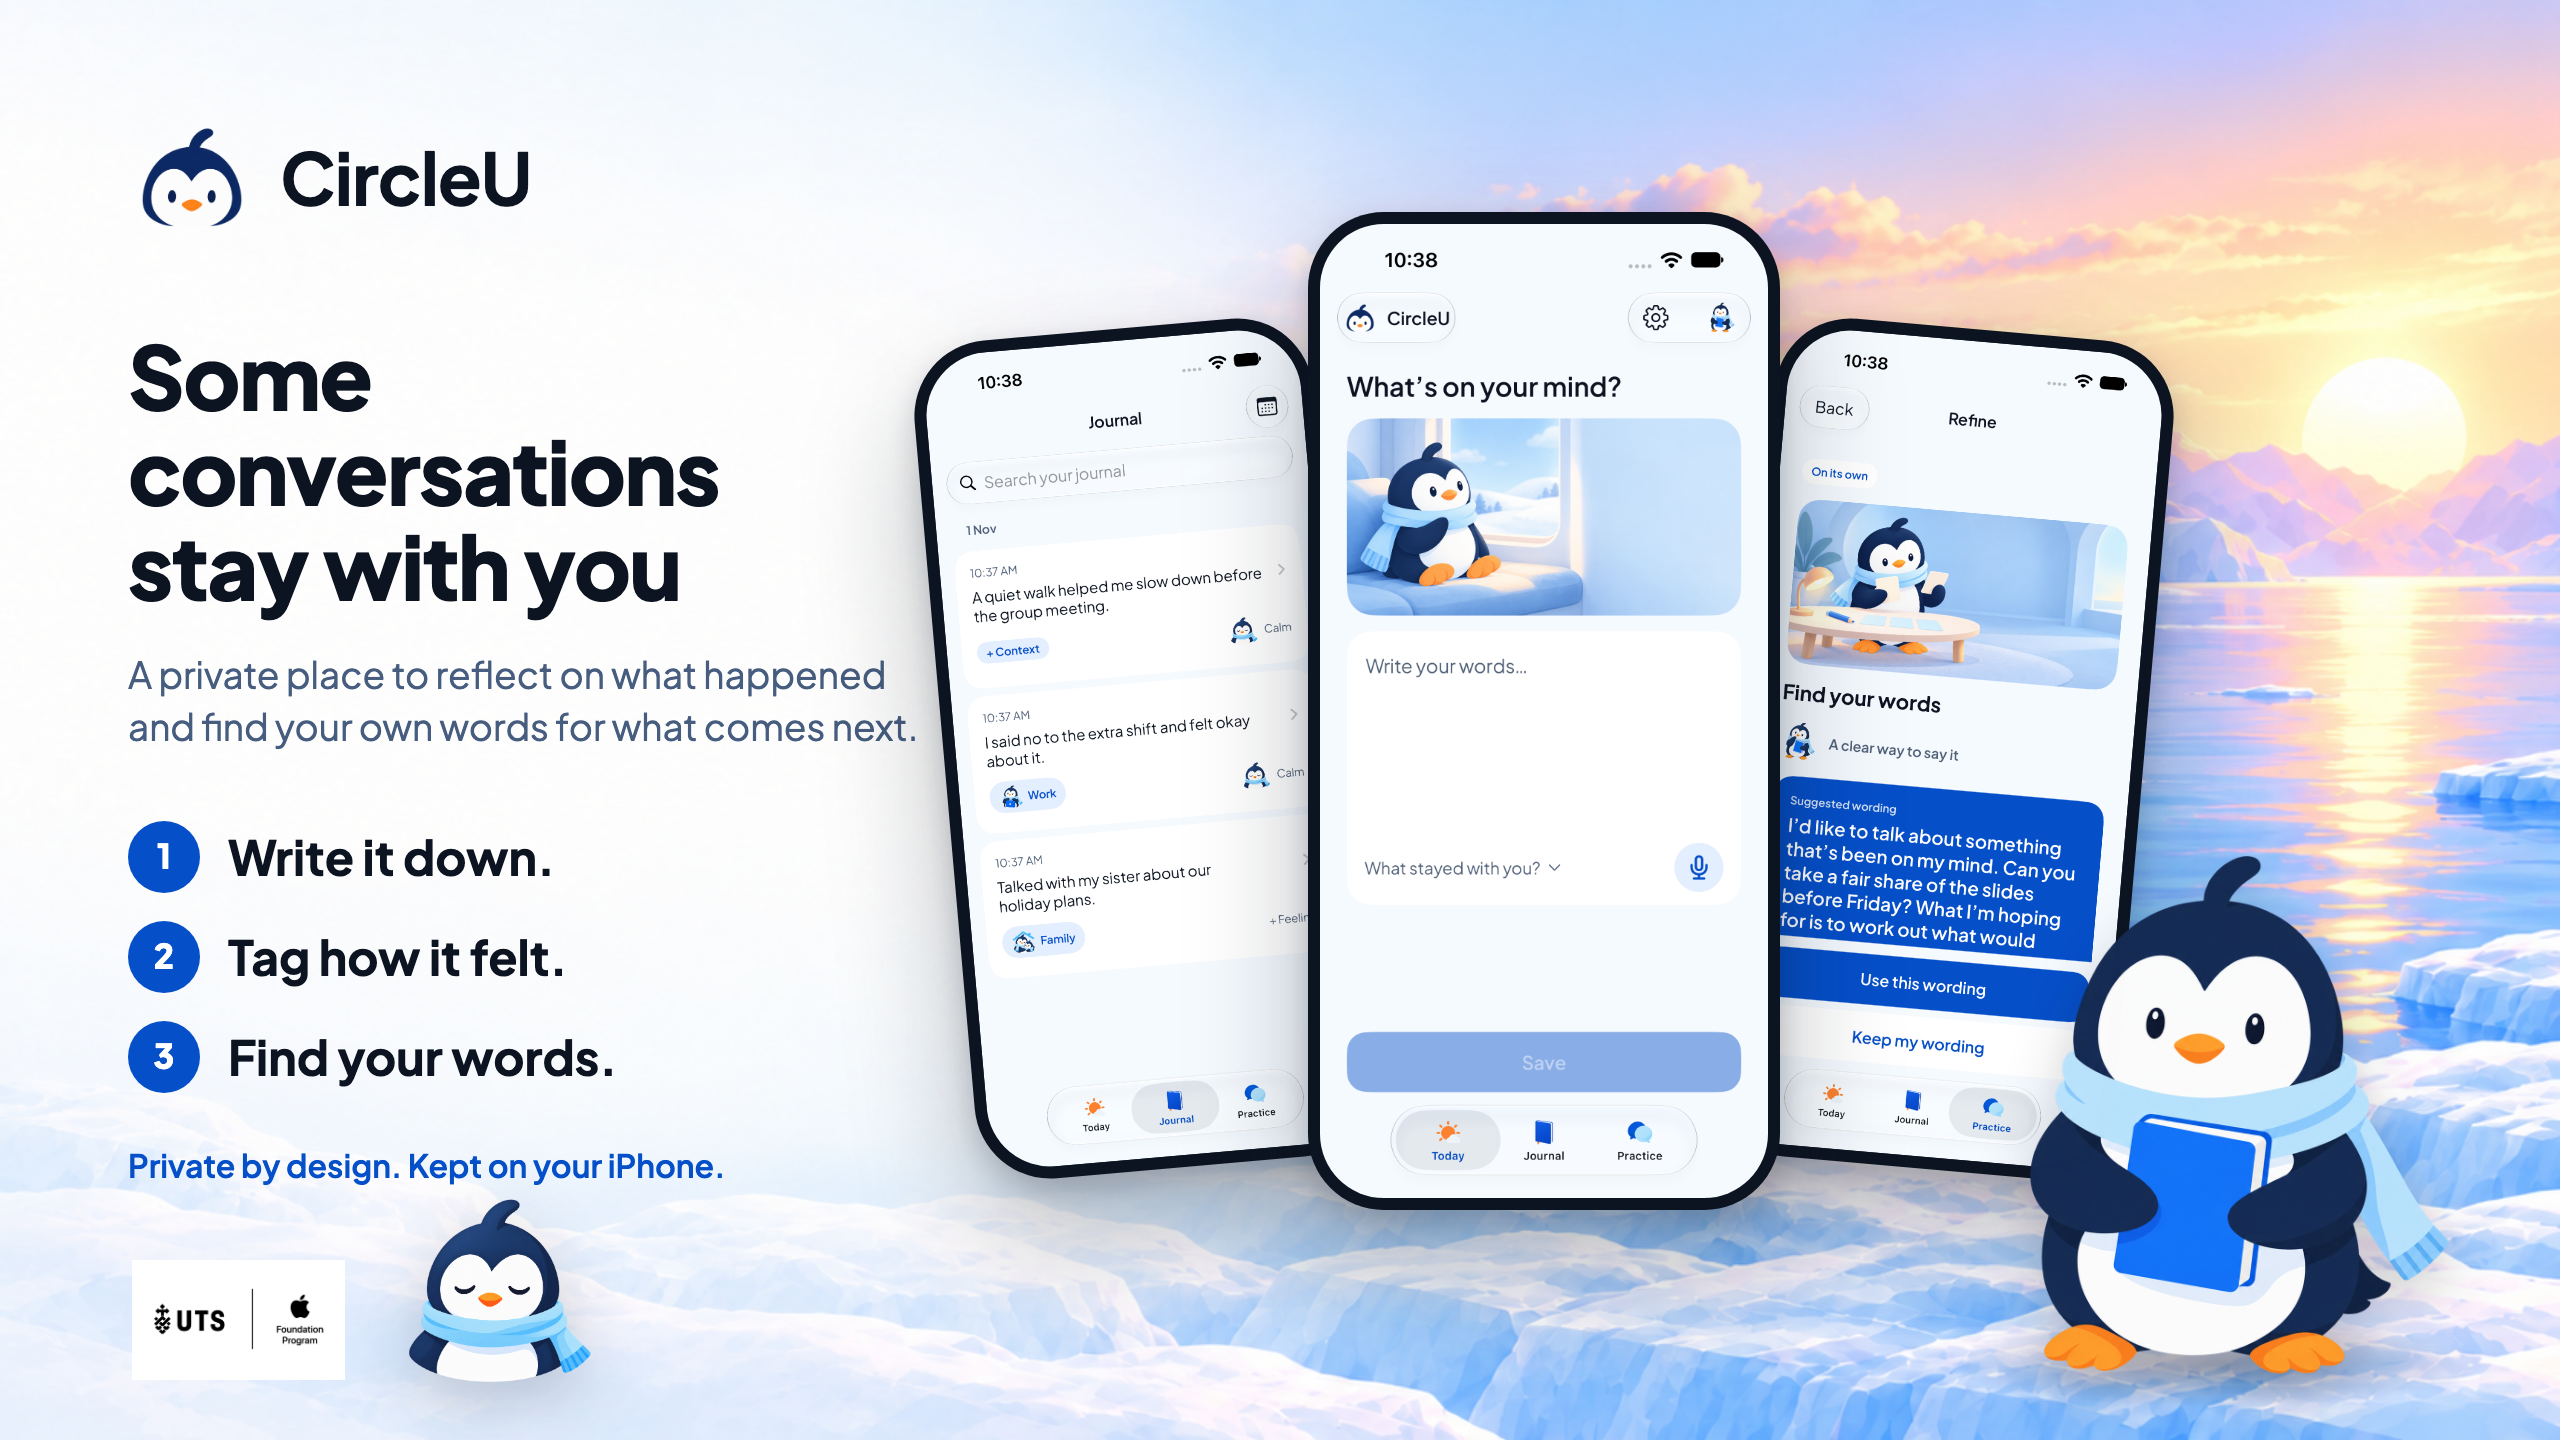
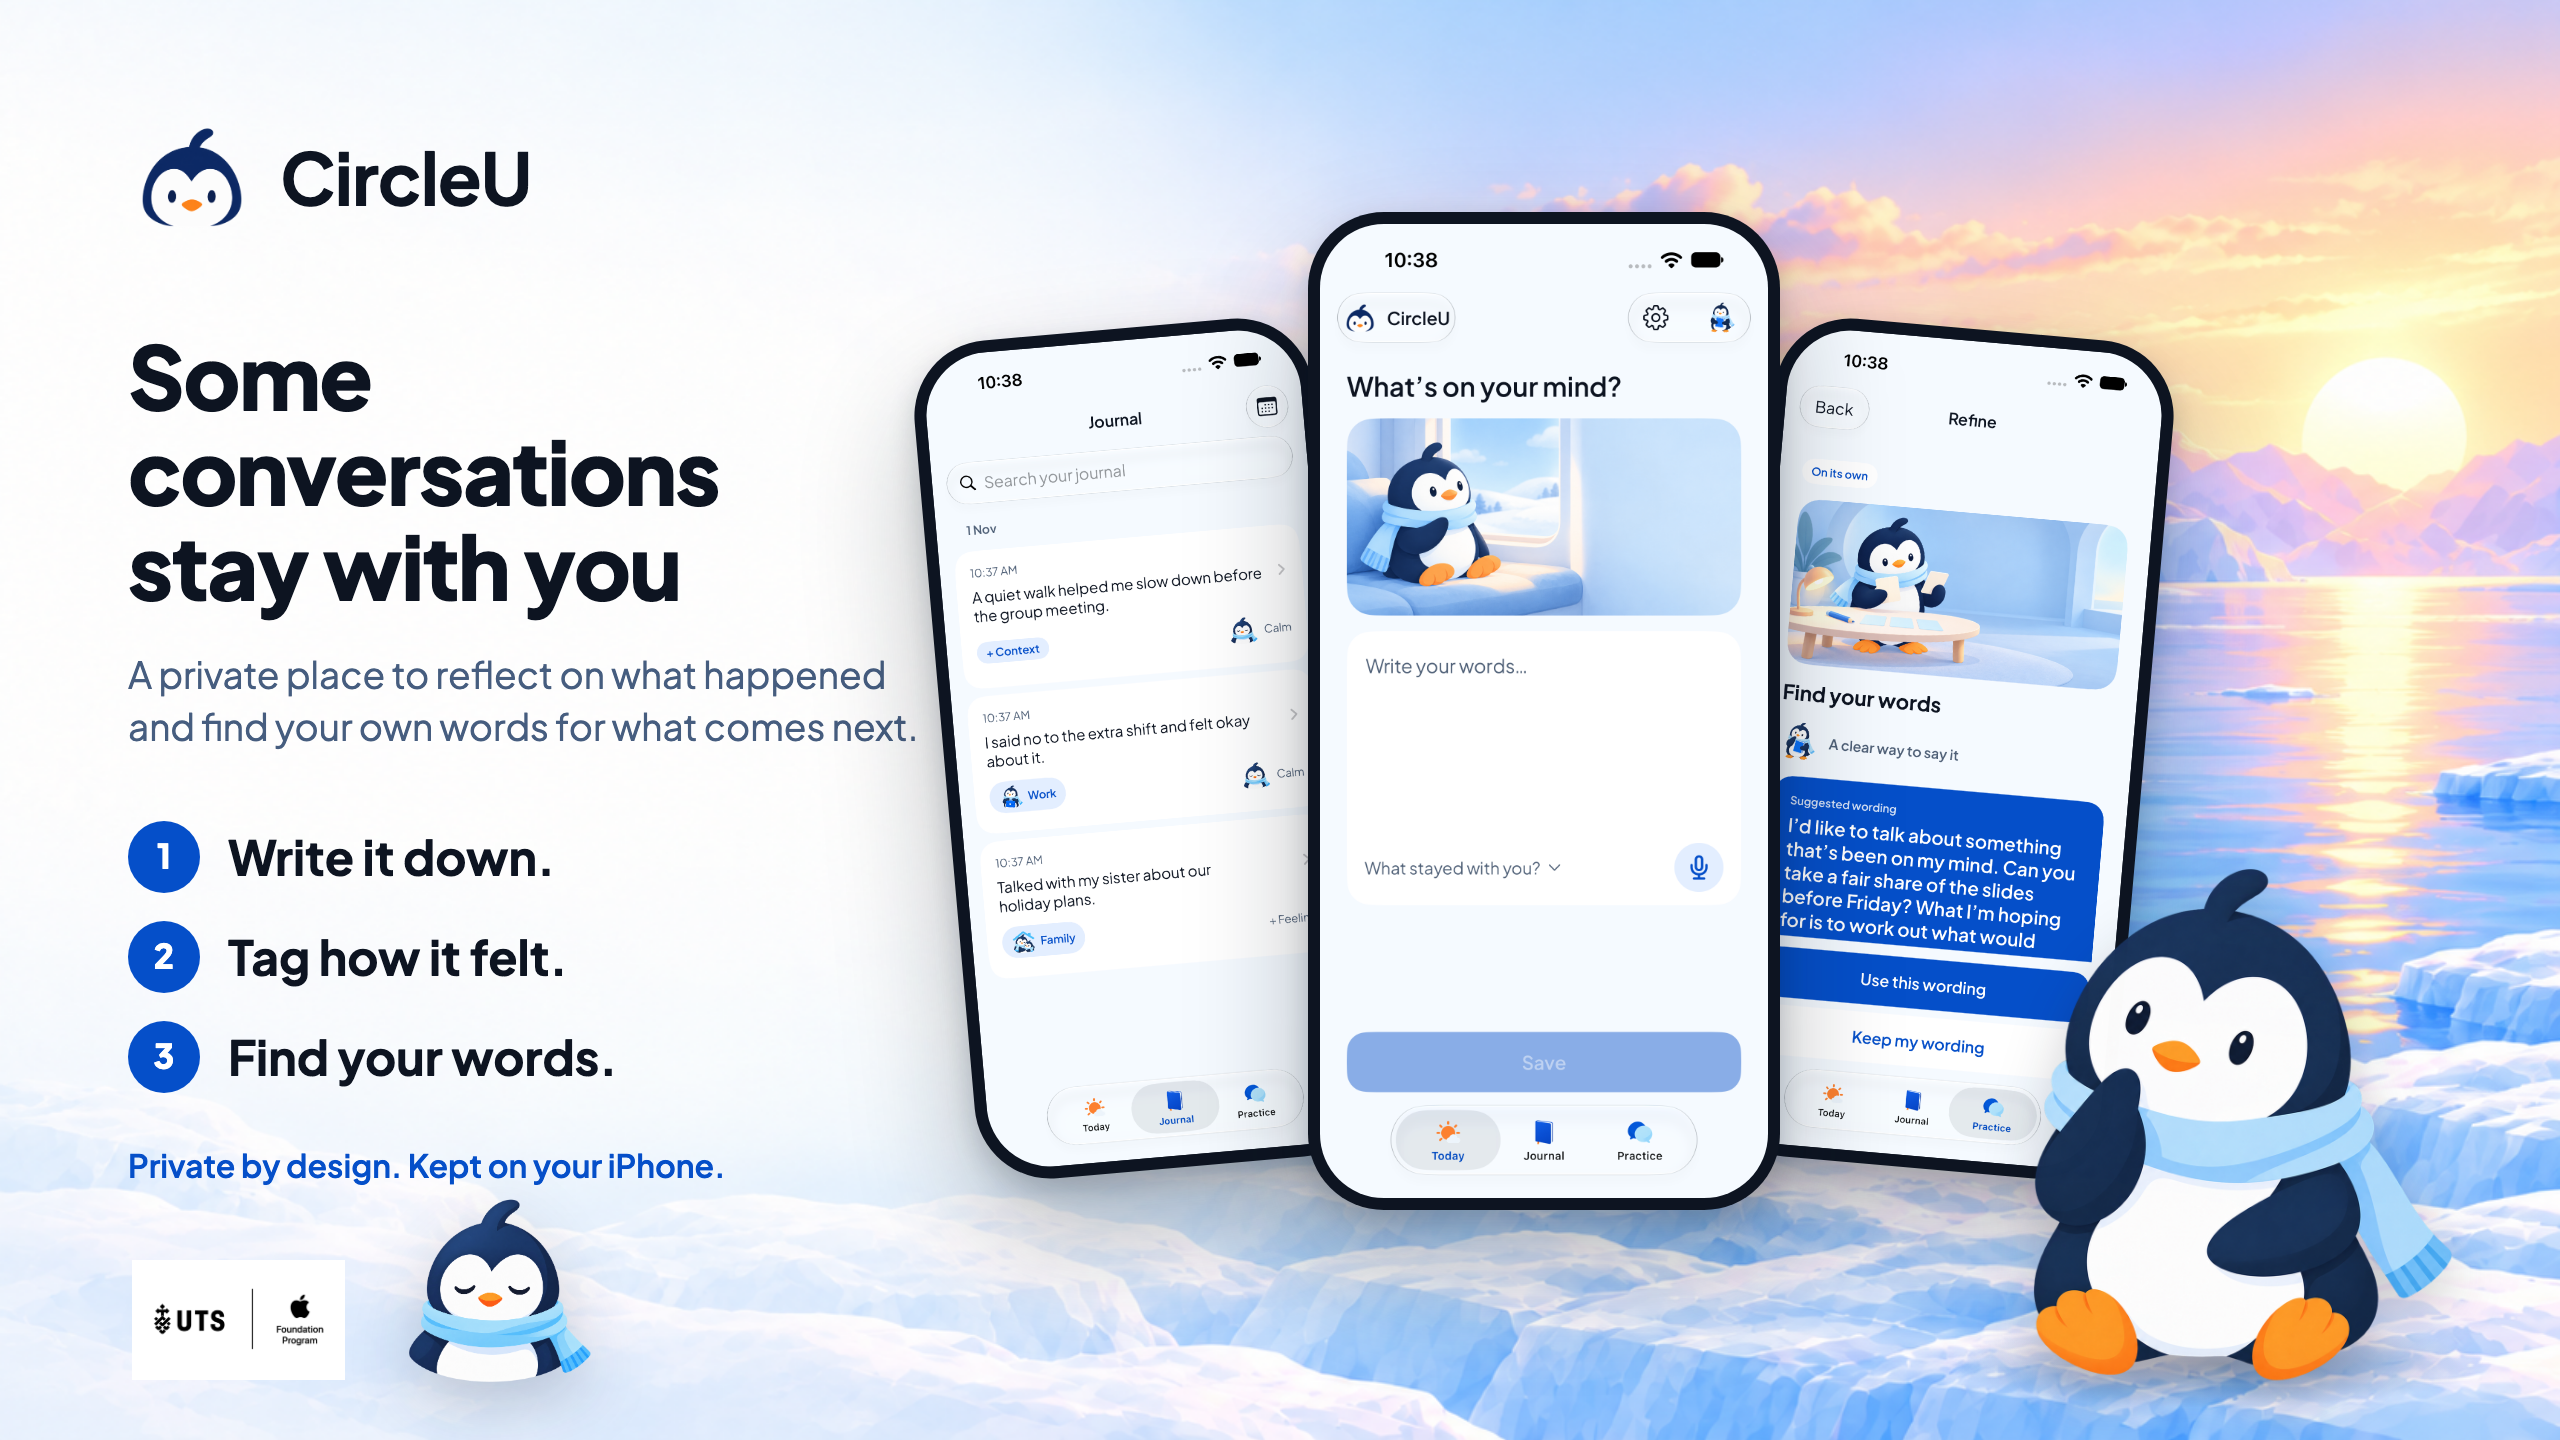
docs(poster): considering Pingu from slide 2; LinkedIn page draws the scene once

Changed region(s): [[0.7812, 0.5938, 0.9688, 0.9688]]

diff --git a/docs/design/showcase-2026-10-30/refinement-07/poster-linkedin.html b/docs/design/showcase-2026-10-30/refinement-07/poster-linkedin.html
@@ -1,8 +1,87 @@
 <!doctype html>
-<html lang="en"><head><meta charset="utf-8"><title>CircleU poster v7 (LinkedIn)</title>
+<html lang="en">
+<head>
+<meta charset="utf-8">
+<title>CircleU poster v7 (LinkedIn)</title>
 <style>
-  html, body { margin: 0; width: 1200px; height: 627px; overflow: hidden; }
-  body { background: #f5faff url("assets/background.png") center / cover no-repeat; position: relative; }
-  iframe { position: absolute; left: 43px; top: 0; width: 1280px; height: 720px; border: 0; transform: scale(.87); transform-origin: 0 0; background: transparent; }
-</style></head>
-<body><iframe src="poster.html"></iframe></body></html>
+  @font-face { font-family: "Plus Jakarta Sans"; src: url("assets/PlusJakartaSans.ttf") format("truetype"); font-weight: 200 800; }
+  * { box-sizing: border-box; margin: 0; padding: 0; }
+  html, body { width: 1200px; height: 627px; overflow: hidden; }
+  .page { position: absolute; left: 43px; top: 0; width: 1280px; height: 720px; transform: scale(.87); transform-origin: 0 0; }
+  body {
+    font-family: "Plus Jakarta Sans", -apple-system, sans-serif; color: #0d1421;
+    background: #f5faff url("assets/background.png") center / cover no-repeat;
+    position: relative;
+  }
+  /* soft "ice" bands */
+  .band { position: absolute; left: 520px; right: -80px; height: 150px; border-radius: 120px;
+          background: linear-gradient(180deg, rgba(255,255,255,.75), rgba(214,231,255,.55)); filter: blur(1px); }
+  .band.a { top: 520px; transform: rotate(-4deg); }
+  .band.b { top: 610px; transform: rotate(-2deg); left: 450px; background: linear-gradient(180deg, rgba(255,255,255,.9), rgba(198,220,255,.6)); }
+
+  /* Hides the text baked into the cover artwork; the scene and Pingu on the right stay untouched. */
+  /* The journal Pingu (the same figure as in the v6 artwork, as its transparent original), sitting on
+     the ice shelf at the right with a soft ground shadow so he belongs to the scene. */
+  .hero { position: absolute; right: 26px; bottom: 14px; width: 292px; z-index: 5; filter: drop-shadow(0 10px 14px rgba(13,20,33,.22)); }
+  .hero-shadow { position: absolute; right: 36px; bottom: 16px; width: 270px; height: 44px; border-radius: 50%; z-index: 4;
+                 background: radial-gradient(ellipse at center, rgba(13,20,33,.28) 0%, rgba(13,20,33,0) 70%); }
+  .left { position: absolute; left: 64px; top: 56px; width: 400px; }
+  .wordmark { display: flex; align-items: center; gap: 12px; }
+  .wordmark img { width: 64px; height: 64px; }
+  .wordmark span { font-size: 36px; font-weight: 700; letter-spacing: -0.5px; }
+  h1 { margin-top: 44px; font-size: 44px; line-height: 1.08; font-weight: 800; letter-spacing: -0.8px; }
+  .intro { margin-top: 18px; font-size: 18.5px; line-height: 1.4; color: #465d7f; }
+  .label { margin-top: 30px; font-size: 15px; font-weight: 700; color: #054fc9; }
+  .steps { margin-top: 34px; list-style: none; counter-reset: step; }
+  .steps li { counter-increment: step; display: flex; align-items: center; gap: 14px; font-size: 24px; font-weight: 700; line-height: 1.2; margin-bottom: 14px; }
+  .steps li::before { content: counter(step); width: 36px; height: 36px; border-radius: 50%; background: #054fc9; color: #fff;
+                      font-size: 17px; font-weight: 800; display: inline-flex; align-items: center; justify-content: center; flex: none; }
+  .trust { margin-top: 26px; font-size: 16px; font-weight: 600; color: #054fc9; }
+  .foot { position: absolute; left: 66px; bottom: 30px; display: flex; align-items: flex-end; gap: 22px; }
+  .foot img.lockup { height: 60px; }
+  .foot img.pingu { height: 104px; margin-bottom: -6px; filter: drop-shadow(0 10px 16px rgba(13,20,33,.2)); }
+
+  .phones { position: absolute; left: 472px; top: 44px; width: 600px; height: 676px; }
+  .phone { position: absolute; border-radius: 38px; background: #0d1421; padding: 6px;
+           box-shadow: 0 30px 60px rgba(13,20,33,.28), 0 6px 14px rgba(13,20,33,.18); }
+  .phone img { display: block; border-radius: 32px; width: 100%; }
+  .phone.side { width: 200px; top: 120px; }
+  .phone.left  { left: 0px;  transform: rotate(-5deg); }
+  .phone.right { left: 400px; transform: rotate(5deg); }
+  .phone.main  { width: 236px; left: 182px; top: 62px; z-index: 2; }
+  .phone .cap { position: absolute; left: 50%; transform: translateX(-50%); top: -36px; white-space: nowrap;
+                font-size: 15px; font-weight: 700; color: #054fc9; background: #fff; padding: 6px 14px; border-radius: 999px;
+                box-shadow: 0 4px 12px rgba(13,20,33,.1); }
+</style>
+</head>
+<body>
+<div class="page">
+
+  <div class="left">
+    <div class="wordmark"><img src="assets/logo.png" alt=""><span>CircleU</span></div>
+    <h1>Some<br>conversations<br>stay with you</h1>
+    <p class="intro">A private place to reflect on what happened and find your own words for what comes next.</p>
+    <ol class="steps">
+      <li>Write it down.</li>
+      <li>Tag how it felt.</li>
+      <li>Find your words.</li>
+    </ol>
+    <p class="trust">Private by design. Kept on your iPhone.</p>
+  </div>
+
+  <div class="phones">
+    <div class="phone side left"><img src="assets/journal.png" alt="Journal screen"></div>
+    <div class="phone main"><img src="assets/today.png" alt="Today screen"></div>
+    <div class="phone side right"><img src="assets/practice.png" alt="Practice screen"></div>
+  </div>
+
+  <div class="hero-shadow"></div>
+  <img class="hero" src="assets/pingu-considering.png" alt="">
+
+  <div class="foot">
+    <img class="lockup" src="assets/program-lockup.png" alt="UTS Apple Foundation Program">
+    <img class="pingu" src="assets/pingu-calm.png" alt="">
+  </div>
+</div>
+</body>
+</html>

diff --git a/docs/design/showcase-2026-10-30/refinement-07/poster.html b/docs/design/showcase-2026-10-30/refinement-07/poster.html
@@ -74,7 +74,7 @@
   </div>
 
   <div class="hero-shadow"></div>
-  <img class="hero" src="assets/pingu-journal.png" alt="">
+  <img class="hero" src="assets/pingu-considering.png" alt="">
 
   <div class="foot">
     <img class="lockup" src="assets/program-lockup.png" alt="UTS Apple Foundation Program">

diff --git a/docs/design/showcase-2026-10-30/refinement-07/README.md b/docs/design/showcase-2026-10-30/refinement-07/README.md
@@ -4,7 +4,7 @@
 
 - [Poster PNG](CircleU-Poster-v7.png): 2560 × 1440 landscape export.
 - [Source page](poster.html): HTML and CSS; rendered with headless Chrome at a 2× device scale factor. Everything on it is editable text or a referenced asset in [assets](assets/).
-- [LinkedIn version](CircleU-Poster-v7-LinkedIn.png): 2400 × 1254 (LinkedIn's 1.91:1 link/post image at 2×), from [poster-linkedin.html](poster-linkedin.html), the same page scaled to 87% on a 1200 × 627 canvas.
+- [LinkedIn version](CircleU-Poster-v7-LinkedIn.png): 2400 × 1254 (LinkedIn's 1.91:1 link/post image at 2×), from [poster-linkedin.html](poster-linkedin.html), the poster page on a 1200 × 627 canvas, scaled to 87% and centred, with the scene drawn once.
 - [Provenance](provenance.json): hashes of every asset and the capture test that produced the screens.
 
 ## What is on it
@@ -12,11 +12,11 @@
 | Element | Source |
 | --- | --- |
 | Journal, Today and Practice screens | `GuestShowcaseCaptureUITests.testCaptureShowcaseScreens` on the iPhone 18 Pro Simulator, iOS 27.0: a seeded Journal with three tagged entries, the empty Today screen, and the Practice result for an invented group-project message with guided suggestions |
-| Background, wordmark and Pingu | `refinement-04/assets/arctic-background.png`, `BrandArtwork/BrandAvatar.png`, `BrandArtwork/BrandLogo.png` and `EmotionPortraits02/PinguCalmTransparentV1.png`, all unchanged files |
+| Background, wordmark and Pingu | `refinement-04/assets/arctic-background.png`, `BrandArtwork/Expansion05/PinguConsideringV1.png`, `BrandArtwork/BrandLogo.png` and `EmotionPortraits02/PinguCalmTransparentV1.png`, all unchanged files |
 | Type | Bundled Plus Jakarta Sans; headline 44 px, intro 18.5 px, steps 24 px, trust line 16 px on the 1280 × 720 canvas |
 | Program lockup | The same UTS Apple Foundation Program image as refinement 04–06; not a claim of endorsement |
 
-Owner review, 1 November: background is the existing empty arctic scene (refinement 04) with the sitting journal Pingu (the transparent `BrandAvatar.png` original of the v6 figure) placed on the ice shelf at the right with a ground shadow; a clipped crop of the v6 artwork was tried first and showed seams, the screen captions and the two footer notes are removed, Pingu sits beside the program lockup, the example quotes are replaced by three steps (Write it down. Tag how it felt. Find your words.) with the line "Private by design. Kept on your iPhone.", and the phones are back at full size between the copy and Pingu. The poster carries no "Design mockups" disclaimer because the screens are real.
+Owner review, 1 November: background is the existing empty arctic scene (refinement 04) with the sitting, considering Pingu from refinement-04 slide 2 (`Expansion05/PinguConsideringV1.png`) on the ice shelf at the right with a ground shadow, the screen captions and the two footer notes are removed, Pingu sits beside the program lockup, the example quotes are replaced by three steps (Write it down. Tag how it felt. Find your words.) with the line "Private by design. Kept on your iPhone.", and the phones are back at full size between the copy and Pingu. The poster carries no "Design mockups" disclaimer because the screens are real.
 
 ## Rebuilding
 
